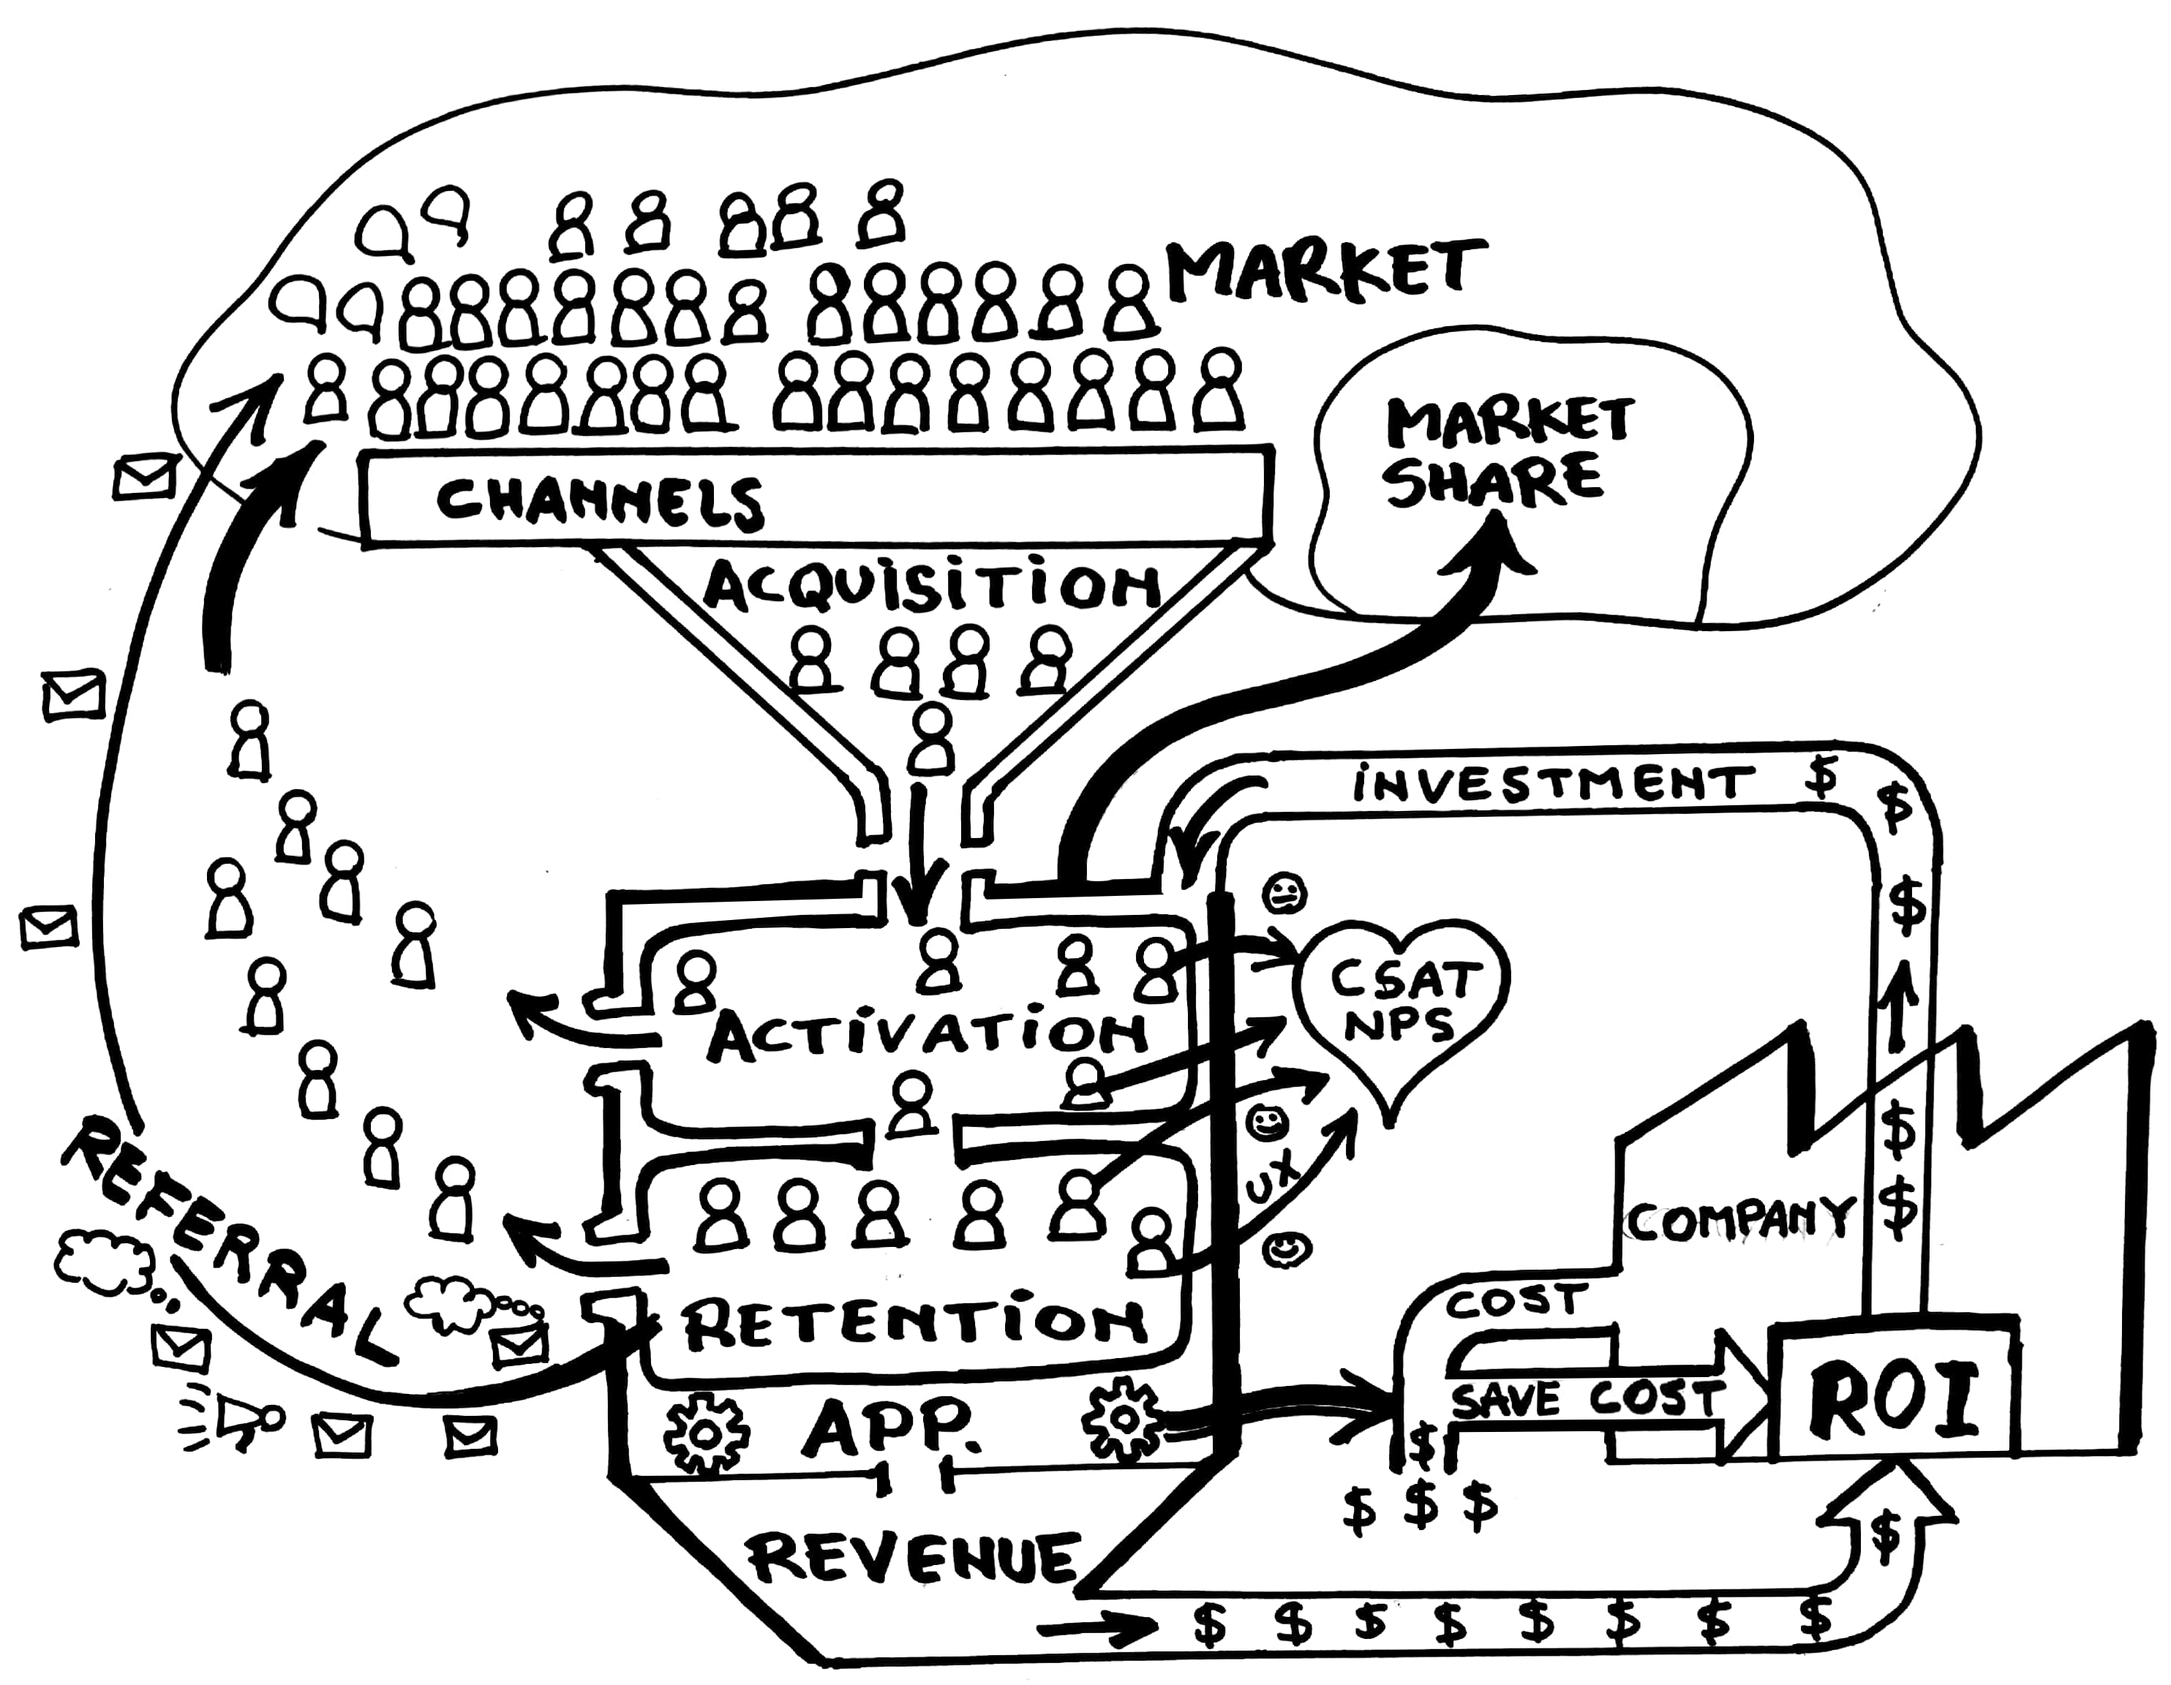
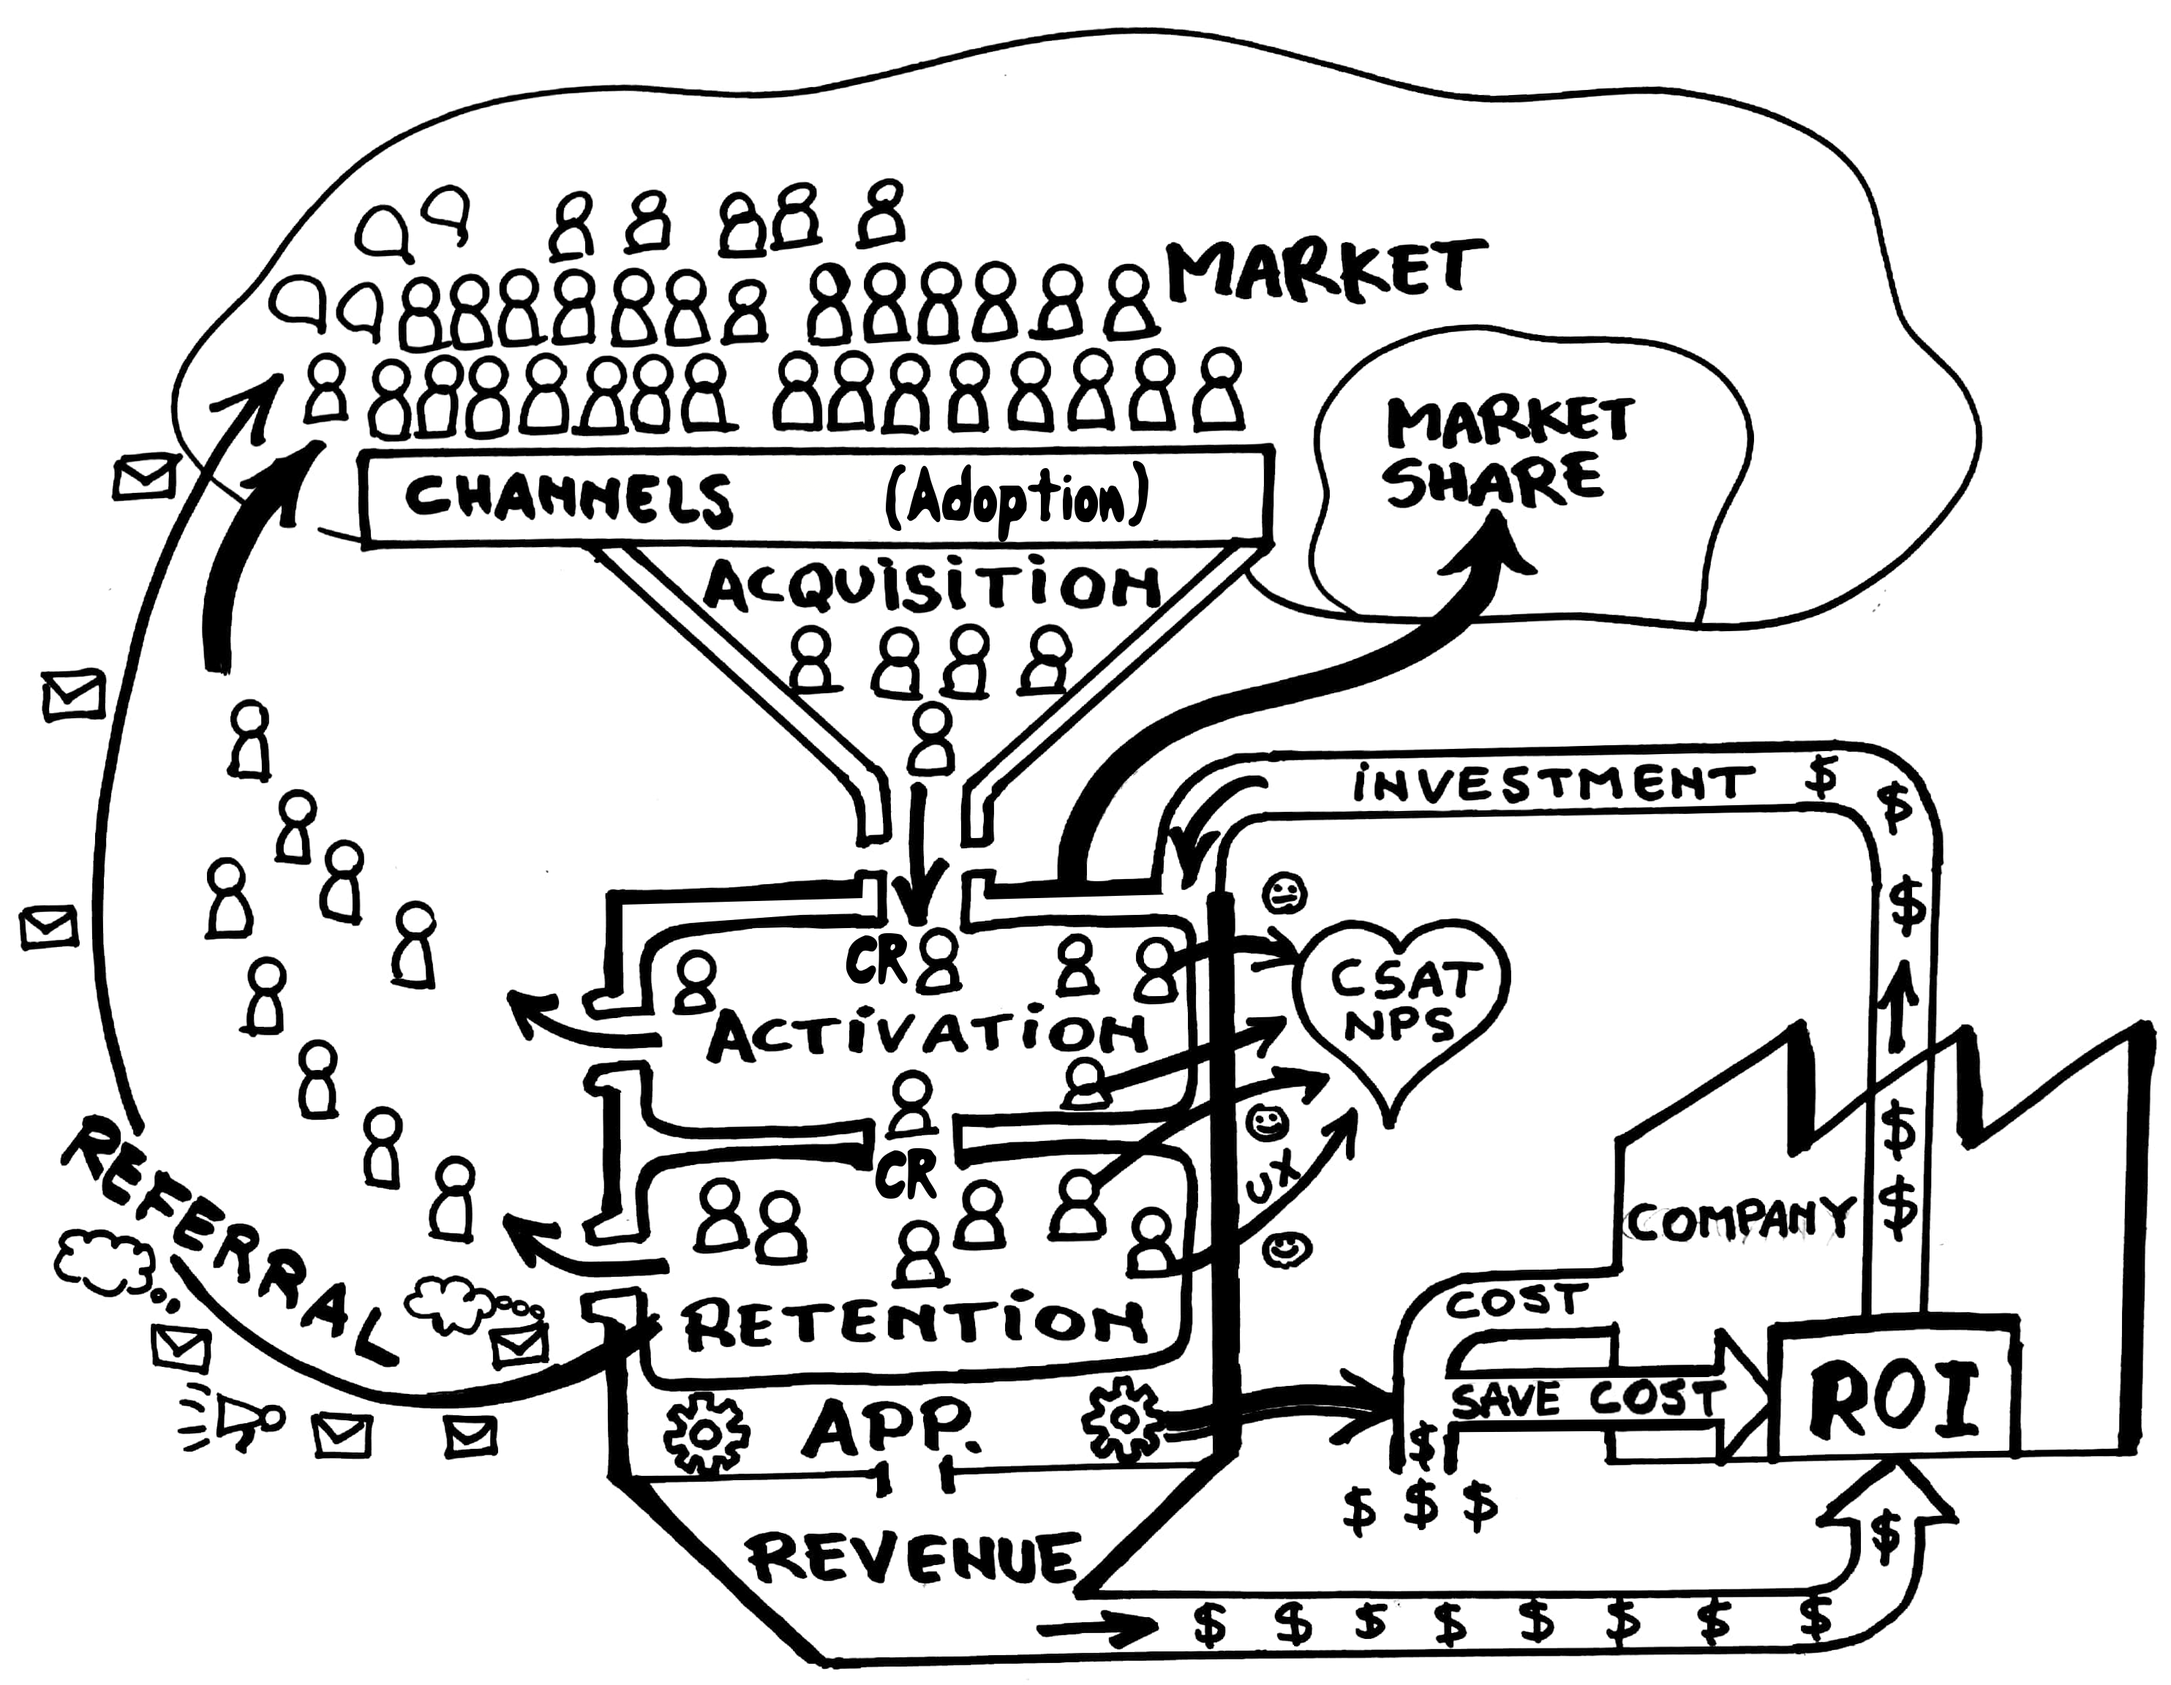
Edit text on metrics chapter

diff --git a/content/metrics.tex b/content/metrics.tex
@@ -187,18 +187,22 @@ El Time-To-Market es el tiempo que toma un nuevo producto/servicios desde que fu
   \item {\textbf{Revenue:} Beneficios o ingresos obtenidos. Se suele medir los ingresos en un periodo dado. Hay que tener en cuenta que esta medida puede ser multifactorial, o sea que el resultado de su aumento o disminución puede ser causado por otros agentes (como marketing). Por este motivo, tener un enfoque reduccionista basado exclusivamente en el beneficio no necesariamente se correlaciona con el valor realmente entregado.
 }
 
-  \item {\textbf{Cost Savings:} Grado de reducción de costos. Hay productos/servicios que impactan en la disminución de costos, prescindiendo de recursos, insumos o servicios que representan un costo para la organización.
+  \item {\textbf{Cost Saving:} La reducción de costos es el impacto monetario resultado de economizar recursos o reducir gastos. Hay productos o servicios que impactan en la disminución de costos, prescindiendo de recursos, insumos o servicios que representan un costo para la organización. Como por ejemplo los costos de contact center, arriendo de infraestructura, costo de licencias, gasto de un servicio de un tercero, etcétera.
 }
 
-  \item {\textbf{Completion rate:} La tasa de finalización mide el porcentaje de usuarios que finaliza con éxito o generan un resultado exitosamente. Se calcula dividiendo el número total de interacciones completadas con éxito por el número total de interacciones iniciadas. También se puede conocer como tasa de conversión ("Conversion Rate" en web site) o "Full Compliance", como el porcentaje de visitantes a un sitio web que cumplen el objetivo del sitio. 
+  \item {\textbf{Conversion Rate:} La tasa de conversión (CR) mide cuántos usuarios de los que entran a la aplicación hacen la acción objetivo querida, es decir que, es el porcentaje de usuarios que realizan una acción específica, como una consulta, compra, descarga, registro o una reserva. Por ejemplo, si 20.000 visitas generaron 300 ventas, entonces la CR es 300 / 20.000 (objetivos conseguidos / número total de visitas), igual a 1,5\%. También nos sirve para hacer un embudo de conversión en una aplicación que tiene varios pasos o acciones objetivos principales.
 }
 
-  \item {\textbf{Volume of Use:} Cuantos usuarios usan nuestra aplicación.
-}
-  \item {\textbf{Penetration:} Cuantos usuarios, de los que ya son clientes, usan nuestra aplicación del volumen total que usan dicho servicio en relación a todos los canales. Esto marca la parte del “Volume of Use” que crece por que los usuarios dejan de usar otros canales.
+  \item {\textbf{Completion Rate:} La tasa de finalización es una tasa de conversión que mide el porcentaje de usuarios que finaliza con éxito o generan un resultado exitosamente después de hacer un conjunto de acciones. Se calcula dividiendo el número total de interacciones completadas con éxito por el número total de interacciones iniciadas. También se puede conocer bajo el nombre de "Full Compliance", como el porcentaje de visitantes a un sitio web que cumplen el objetivo del sitio. 
 }
 
-  \item {\textbf{Digital take-up:} Tasa de adopción para el servicio digital \footnote{Performance Dashboard del gobierno de australia (dashboard.gov.au)}.
+  \item {\textbf{Volume of Use:} El volumen de uso representa a cuantos usuarios usan nuestra aplicación.
+}
+
+  \item {\textbf{Digital take-up:} La aceptación digital o tasa de adopción para el servicio digital \footnote{Performance Dashboard del gobierno de australia (dashboard.gov.au)}. Es decir que es el porcentaje de personas que usaron el canal digital en un período dado en relación con el uso de otros canales, por ejemplo, papel o teléfono. Este KPI representa el porcentaje de la audiencia objetivo que se ha alcanzado con el canal digital, calculado como la cantidad de transacciones digitales completadas durante un período fijo, dividido por el número total de transacciones de todos los canales.
+}
+
+  \item {\textbf{Adoption:} La adopción, penetración o take-up, es algo similar a la adopción digital, aunque usada en forma más genérica. Indica cuántos usuarios, de los que ya son clientes, usan nuestra aplicación del volumen total que usan dicho servicio en relación a todos los canales. Esto marca la parte del “Volume of Use” que crece por que los usuarios dejan de usar otros canales.
 }
 
   \item {\textbf{Market Share:} Es un índice de competitividad que indica el nivel de desempeño de la aplicación o empresa en relación a su competencia relativa al mercado objetivo. Esta se puede cuantificar de diversas maneras dependiendo del mercado. Por ejemplo, cuántos usuarios, de los usuarios que no son clientes, fueron captados del mercado objetivo. O sea, que puede indicar la cantidad de usuarios nuevos captados de la competencia o del mercado. Esto marca si el “Volume of Use” crece por captación de nuevos usuarios o no. Esta métrica guarda cierta similitud con la penetración en el mercado o IPM (Market Penetration Index) que establece la posición relativa de la aplicación o empresa respecto a la competencia.

diff --git a/content/second_page.tex b/content/second_page.tex
@@ -34,7 +34,7 @@
 
 % Version of Build or PDF version
 Primera edición, versión 1.0.0, 2015, Córdoba, Argentina.
-Segunda edición, versión 3.0.1, 6 de Marzo de 2018, Santiago de Chile.
+Segunda edición, versión 3.0.2, 8 de Marzo de 2018, Santiago de Chile.
 
 % License text message
 \input{content/license_message}
